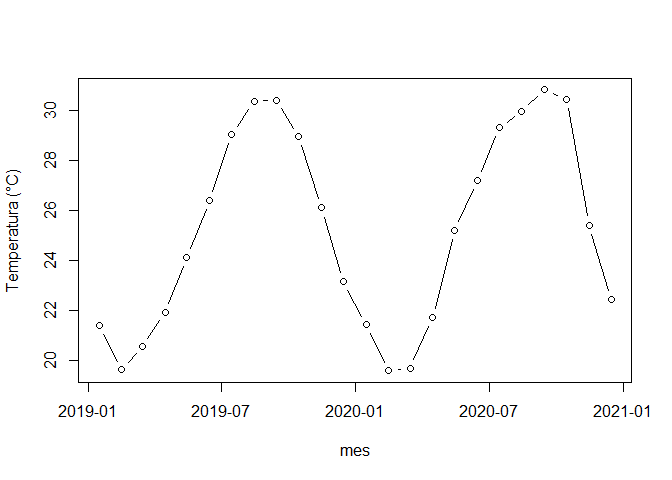
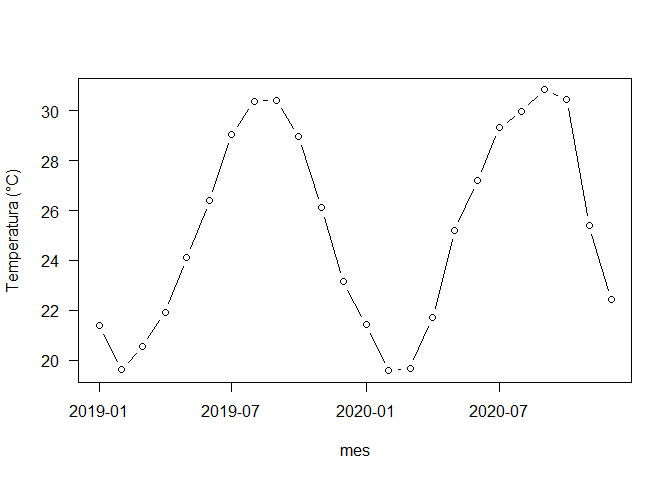
update HV

diff --git a/17-Octubre-2024/Hector/Datos_Temporales_en_R.md b/17-Octubre-2024/Hector/Datos_Temporales_en_R.md
@@ -7,31 +7,35 @@ Héctor Villalobos
 Hablamos de datos temporales cuando las variables que se recolectan
 tienen asociada una fecha y posiblemente una hora. El uso correcto de
 estos datos depende de definir con toda claridad el formato en que esta
-información se almacena. Por ejemplo, en los archivos (ascii o Excel) se
-puede guardar el año, mes y día en columnas separadas, o combinados en
-una misma columna como una cadena de texto o bien en un formato
-especializado de fecha (en el caso de Excel).
+información se almacena. Por ejemplo, en nuestros archivos (ascii o
+Excel) se puede guardar el año, mes y día en columnas separadas, o
+combinados en una misma columna como una cadena de texto o bien en un
+formato especializado de fecha (en el caso de Excel).
 
-Usualmente se usan solo números, por lo que tendríamos algo así como
-“30-09-2024” (dd-mm-aaaa), aunque en algunos casos podría escribirse
-como “2024/Sep/30” (aaaa/mmm/dd). El tiempo podría estar en una columna
+Usualmente se utilizan solo números, dos dígitos para el mes y el día y
+cuatro para el año, por lo que tendríamos algo así como “30-09-2024”
+(dd-mm-aaaa), aunque no necesariamente en ese orden. En otros casos
+podría escribirse el nombre del mes completo o abreviado, por ejemplo
+“2024/Sep/30” (aaaa/mmm/dd). El tiempo podría estar en una columna
 aparte o también combinado con la fecha: “2024-09-30 15:30:58”
 (aaaa-mm-dd hh:mm:ss).
 
-Lo importante en todos los casos es la consistencia, y sobretodo no
-invertir el orden del mes y el día ni escribir indistintamente “Sep”,
-“sep” y “Septiembre” . Es sumamente importante revisar esto antes de
-importar los datos en R.
+Lo importante en todos los casos es la consistencia, no mezclar los
+nombres de los meses con números, ni escribir indistintamente “Sep”,
+“sep” y “Septiembre”, pero sobre todo, no invertir el orden del mes y el
+día. Es indisoensable revisar estos detalles en nuestros datos antes de
+importarlos en R.
 
 <img src="fechas.jpg" data-fig-align="center" width="266" />
 
 Al importar en R desde archivos ascii con la función `read.table()`, la
-clase de la variable con la fecha será `"character"`, lo cual
-dificultará su uso en gráficos o para realizar operaciones, por lo que
-debemos convertirlos a una clase apropiada. En cambio, al importar
-archivos Excel con la función `read_excel()` del paquete **readxl**
-usualmente ya pasan como clase `"POSIXct"`, si el formato no es ambiguo.
-A continuación se describen algunas de estas clases especializadas.
+variable con la fecha será reconocida como texto (clase `"character"`),
+lo cual dificultará su uso en gráficos o para realizar operaciones, por
+lo que debemos convertirlos a una clase apropiada. En cambio, al
+importar archivos Excel con la función `read_excel()` del paquete
+**readxl** usualmente ya pasan como clase `"POSIXct"`, si el formato no
+es ambiguo. A continuación se describen algunas de estas clases
+especializadas.
 
 ## Clase `"Date"`
 
@@ -44,7 +48,8 @@ fechas
 
     [1] "2024-09-13" "2024-10-18" "2024-11-25" "2024-12-31"
 
-En el ejemplo, el vector `fechas` es de clase `"character"`.
+En el ejemplo, el vector `fechas`, aunque parece contener fechas, es de
+clase `"character"`.
 
 ``` r
 class(fechas)
@@ -54,9 +59,10 @@ class(fechas)
 
 La conversión a la clase `"Date"` se logra con la función `as.Date()`.
 Esta función trata de determinar que parte de la cadena de texto
-representa al día, al mes y al año, aunque de igual manera podemos
+representa al día, al mes y al año, al igual que el carácter que separa
+a cada elemento (en este caso “-”), aunque de igual manera podemos
 especificarlo nosotros mediante el argumento `format = "%Y-%m-%d"` que
-veremos más adelante.
+explicaremos más adelante.
 
 ``` r
 fechas <- as.Date(fechas)
@@ -71,7 +77,8 @@ class(fechas)
 
     [1] "Date"
 
-Esta clase representa el número de días desde el 1 de enero de 1970.
+Esta clase se almacena como el número de días desde el 1 de enero de
+1970.
 
 ``` r
 unclass(fechas)
@@ -79,14 +86,11 @@ unclass(fechas)
 
     [1] 19979 20014 20052 20088
 
+Podemos verificar lo anterior definiendo el origen en la misma clase y
+restandolo a nuestro vector de fechas.
+
 ``` r
 origen <- as.Date("1970-01-01")
-```
-
-La resta siguiente nos debe dar los mismos valores obtenidos con
-`unclass(fechas)`.
-
-``` r
 fechas - origen
 ```
 
@@ -101,12 +105,17 @@ ahora <- Sys.time()
 ahora
 ```
 
-    [1] "2024-10-15 19:54:31 MST"
+    [1] "2024-10-16 09:44:10 MST"
 
-Al aplicar la función `as.Date()` la hora se descarta.
+La función `as.Date()` descarta la hora. Aquí se especifica la zona de
+tiempo de la configuración local de la computadora donde se creó este
+tutorial para evitar que se considere con horario UTC (tiempo universal
+coordinado, sucesor del tiempo medio de Greenwich o GMT) . Se pueden
+consultar los códigos de las zonas de tiempo con la función
+`OlsonNames()`.
 
 ``` r
-as.Date(ahora)
+as.Date(ahora, tz = "America/Mazatlan")
 ```
 
     [1] "2024-10-16"
@@ -124,11 +133,11 @@ GMT. La función `strptime()` nos permite convertir una cadena de texto a
 la clase `"POSIXlt"`.
 
 ``` r
-dt <- strptime("2024-10-18 07:12:30", format = "%Y-%m-%d %H:%M:%S", tz = "UTC")
+dt <- strptime("2024-10-17 07:12:30", format = "%Y-%m-%d %H:%M:%S", tz = "UTC")
 dt
 ```
 
-    [1] "2024-10-18 07:12:30 UTC"
+    [1] "2024-10-17 07:12:30 UTC"
 
 ``` r
 class(dt)
@@ -140,9 +149,10 @@ Aquí vemos de nueva cuenta el uso del argumento `format` indicando que
 el año está primero e incluye la centuria (`%Y`), seguido del mes como
 número de dos dígitos (`%m`) y el día (`%d`) separados por un guión.
 Después siguen los códigos para la hora (`%H`), minutos (`%M`) y
-segundos (`%S`). Si nuestra cadena de texto hubiera sido “24-Oct.-18” el
-formato cambiaría a `"%y-%b-%d"`. Estos códigos y otros más se puden
-consultar en la ayuda de la función `strptime()`.
+segundos (`%S`) separados por “:”. Si nuestra cadena de texto hubiera
+sido “24-Oct.-17” el argumento cambiaría a `format = "%y-%b-%d"`. Estos
+códigos y otros más se pueden consultar en la ayuda de la función
+`strptime()`.
 
 Para ver los vectores mencionados antes, usamos nuevamente la función
 `unclass()`.
@@ -161,7 +171,7 @@ unclass(dt)
     [1] 7
 
     $mday
-    [1] 18
+    [1] 17
 
     $mon
     [1] 9
@@ -170,10 +180,10 @@ unclass(dt)
     [1] 124
 
     $wday
-    [1] 5
+    [1] 4
 
     $yday
-    [1] 291
+    [1] 290
 
     $isdst
     [1] 0
@@ -188,6 +198,9 @@ unclass(dt)
     [1] "UTC"
     attr(,"balanced")
     [1] TRUE
+
+Notar que el mes es 9 porque se cuenta desde 0. En el caso del año, el
+origen es 1900, por lo que 124 + 1900 = 2024.
 
 También podemos usar la función `as.POSIXlt()` para convertir una cadena
 de texto a la clase `"POSIXlt"`. En este caso, si no lo indicamos la
@@ -253,8 +266,9 @@ más fácil de leer para el humano.
 
 ## Manipulación de datos temporales: temperatura potencial del mar diaria
 
-Para ilustrar la manipulación de datos temporales utilizaremos
-información del producto *Global Ocean Physics Reanalysis*
+Una vez explicadas las clases especializadas para fechas-tiempo en R,
+vamos a ilustrar la manipulación de este tipo de información utilizando
+el producto *Global Ocean Physics Reanalysis*
 (<https://doi.org/10.48670/moi-00021>) de Copernicus
 (<https://marine.copernicus.eu/>).
 
@@ -274,7 +288,7 @@ head(time)
     [1] 1546300800 1546387200 1546473600 1546560000 1546646400 1546732800
 
 Inspeccionando un poco el archivo (tecleando `ncf` en la consola de R)
-podemos notar que estos números corresponden al número de segundos desde
+podemos notar que estos valores corresponden al número de segundos desde
 el primero de enero de 1970: “units: seconds since 1970-01-01 00:00:00”,
 por lo que la conversión apropiada sería
 
@@ -286,10 +300,12 @@ head(time)
     [1] "2019-01-01 UTC" "2019-01-02 UTC" "2019-01-03 UTC" "2019-01-04 UTC"
     [5] "2019-01-05 UTC" "2019-01-06 UTC"
 
-Aunque este proceso pudiera parecer complicado, se encuentra ya
-codificado en la función `read.cmems()` del paquete **satin**, que
-además prevee otros casos en los que el origen o las unidades pudieran
-ser diferentes (e.g. horas o días).
+Este proceso aunque no es complicado requiere varios pasos que se pueden
+implementar en una función que se ocupe de esto y de extraer el resto de
+la información del archivo netCDF. Un ejemplo es la función
+`read.cmems()` del paquete **satin**, que además prevee otros casos en
+los que el origen o las unidades pudieran ser diferentes (e.g. horas o
+días).
 
 ``` r
 # cargar paquete devtools
@@ -349,7 +365,7 @@ resolución espacial de 9.2 km. En total son 731 días, del primero de
 enero de 2019 al 31 de diciembre de 2020 y a 2 niveles de profundidad
 diferentes (0.49 y 1.54 m).
 
-Con la función `str()` podemos ver la estructura del objeto y sus
+Con la función `str()` podemos ver la estructura de `thetao` y sus
 diferentes componentes.
 
 ``` r
@@ -374,8 +390,8 @@ str(thetao)
 
 Podemos extraer los diferentes componentes (“slots”) de este objeto de
 clase S4 usando “@”. Por ejemplo el vector de latitudes `thetao@lat`, o
-los periodos (en este ejemplo solo algunos del inicio y otros del final
-de los 731 días).
+los periodos (en este ejemplo solo algunos al inicio y otros al final de
+los 731 días).
 
 ``` r
 head(thetao@period$tmStart); tail(thetao@period$tmStart)
@@ -389,7 +405,7 @@ head(thetao@period$tmStart); tail(thetao@period$tmStart)
 
 Hasta aquí solo hemos descrito la estructura de los datos importados y
 como las fechas se convirtieron a una clase formal apropiada
-(`"POSIXct"`). Ahora veremos las ventadas de esto. Para ello primero
+(`"POSIXct"`). Ahora veremos las ventajas de esto. Para ello primero
 haremos un mapa del primer periodo (por defecto) para elegir un punto y
 extraer los valores de temperatura en el nivel más superficial para
 todos los días contenidos en nuestros datos.
@@ -445,7 +461,7 @@ head(tsm)
 
 Si graficamos esta nueva tabla vemos como la fecha se ubica en el eje x
 y las etiquetas se ajustan al formato más conveniente (año-mes en este
-caso) para evitar una saturar el gráfico con texto.
+caso) para evitar saturar el gráfico con texto.
 
 ``` r
 plot(tsm, type = "b", pch = 16, col = rgb(1, 0, 0, 0.2))
@@ -484,7 +500,9 @@ head(tsm)
     p6 2019-01-06    21.24976   1 2019
 
 Ahora el promedio por año podría obtenerse con la función `tapply()` o
-`aggregate()`.
+`aggregate()`. La diferencia entre estas funciones es que la primera
+devuelve una matriz (o arreglo cuando hay más de tres dimensiones) y la
+segunda un *data frame*.
 
 ``` r
 tapply(tsm$temperatura, tsm$año, mean)
@@ -493,7 +511,7 @@ tapply(tsm$temperatura, tsm$año, mean)
         2019     2020 
     25.20825 25.29060 
 
-En el caso del promedio mensual, sin considera el año sería
+En el caso del promedio mensual, sin considerar el año sería
 
 ``` r
 aggregate(tsm$temperatura, list(mes = tsm$mes), mean)
@@ -533,13 +551,13 @@ tapply(tsm$temperatura, list(tsm$mes, tsm$año), mean)
     11 26.10929 25.42008
     12 23.13966 22.43016
 
-Estos promedios se pueden también obtener con `aggregate()` que produce
-un *data frame* más apropiado para graficar.
+En este último caso la función `aggregate()` produce un *data frame* más
+apropiado para graficar.
 
 ``` r
-tsm.mens <- aggregate(tsm$temperatura, 
+tsmXmes <- aggregate(tsm$temperatura, 
                       by = list(mes = tsm$mes, año = tsm$año), mean)
-tsm.mens
+tsmXmes
 ```
 
        mes  año        x
@@ -568,11 +586,12 @@ tsm.mens
     23  11 2020 25.42008
     24  12 2020 22.43016
 
-Figura
+Para la figura necesitamos sin embargo combinar las columnas mes y año,
+definiendo un día (el 1 en este ejemplo).
 
 ``` r
-plot(as.Date(paste(tsm.mens$año, tsm.mens$mes, 15, sep = "-")), tsm.mens$x,
-     xlab = "mes", ylab = "Temperatura (°C)", type = "b")
+fecha <- as.Date(paste(tsmXmes$año, tsmXmes$mes, "01", sep = "-"))
+plot(fecha, tsmXmes$x, xlab = "mes", ylab = "Temperatura (°C)", type = "b", las = 1)
 ```
 
 ![](Datos_Temporales_en_R_files/figure-commonmark/unnamed-chunk-32-1.png)
@@ -580,7 +599,7 @@ plot(as.Date(paste(tsm.mens$año, tsm.mens$mes, 15, sep = "-")), tsm.mens$x,
 De igual manera podemos ilustrar el suavizado con promedios móviles
 usando la función `cma()` del paquete **smooth**. En este caso, como el
 vector suavizado queda del mismo tamaño que los datos podemos sobreponer
-ambos explotando la fecha.
+ambos aprovechando la fecha.
 
 ``` r
 library(smooth)
